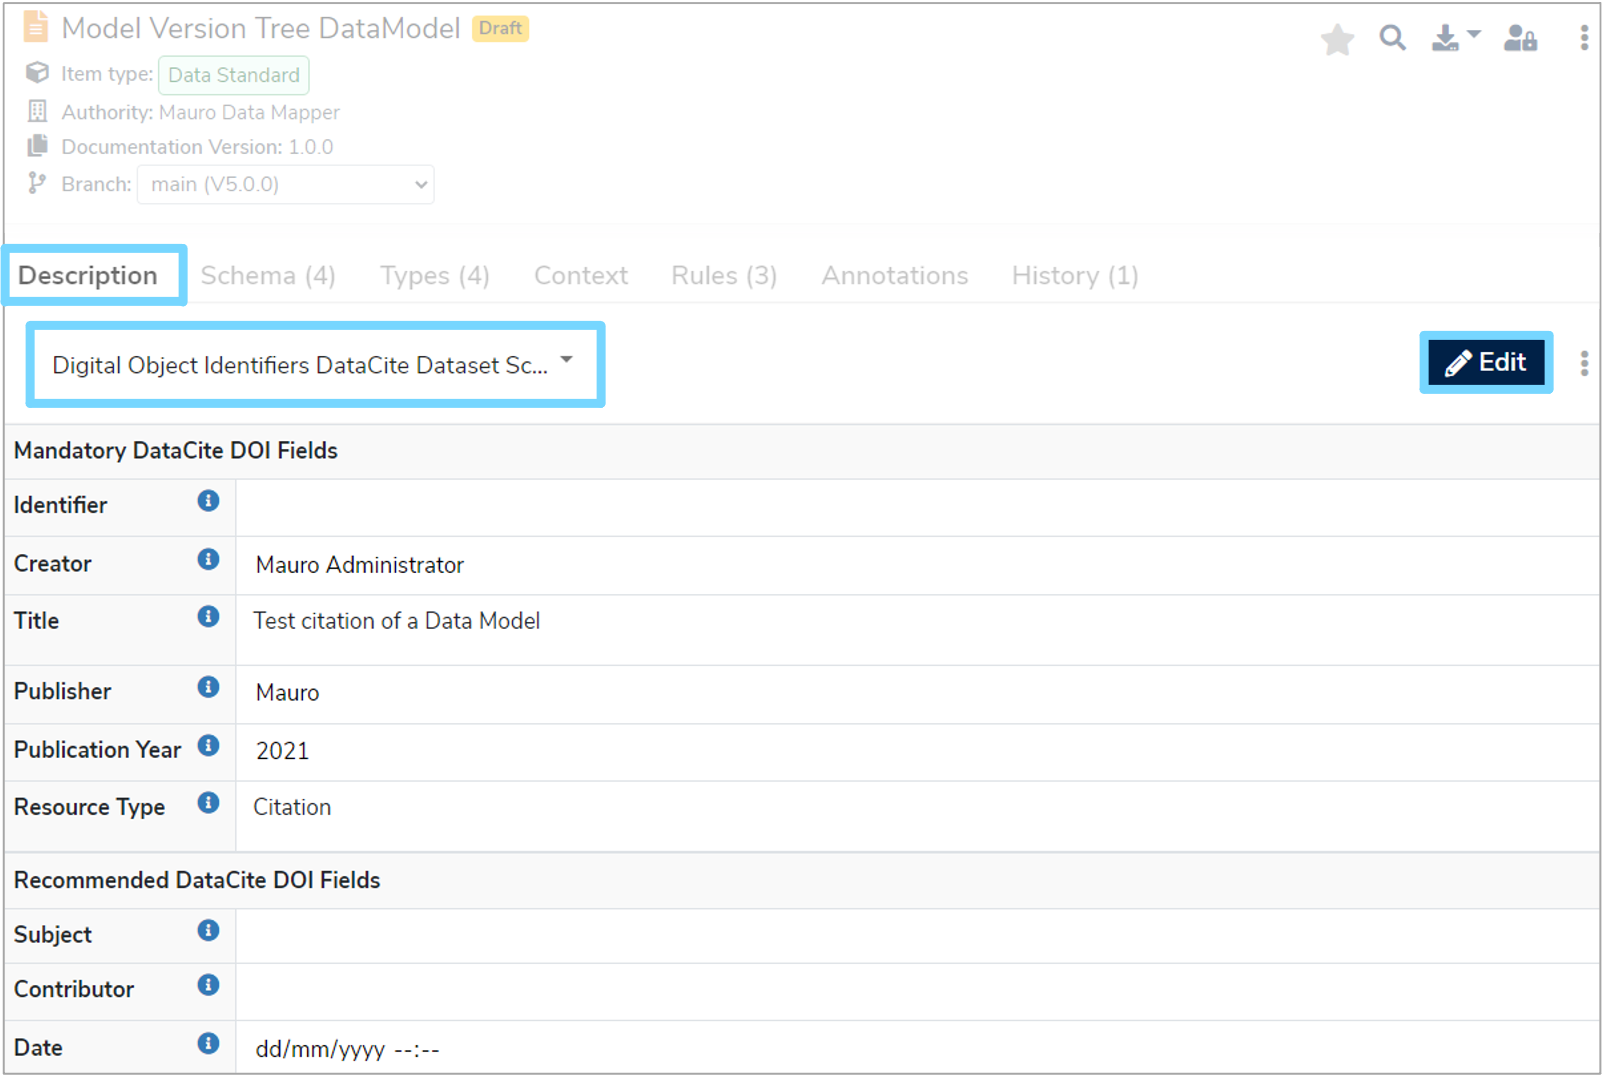
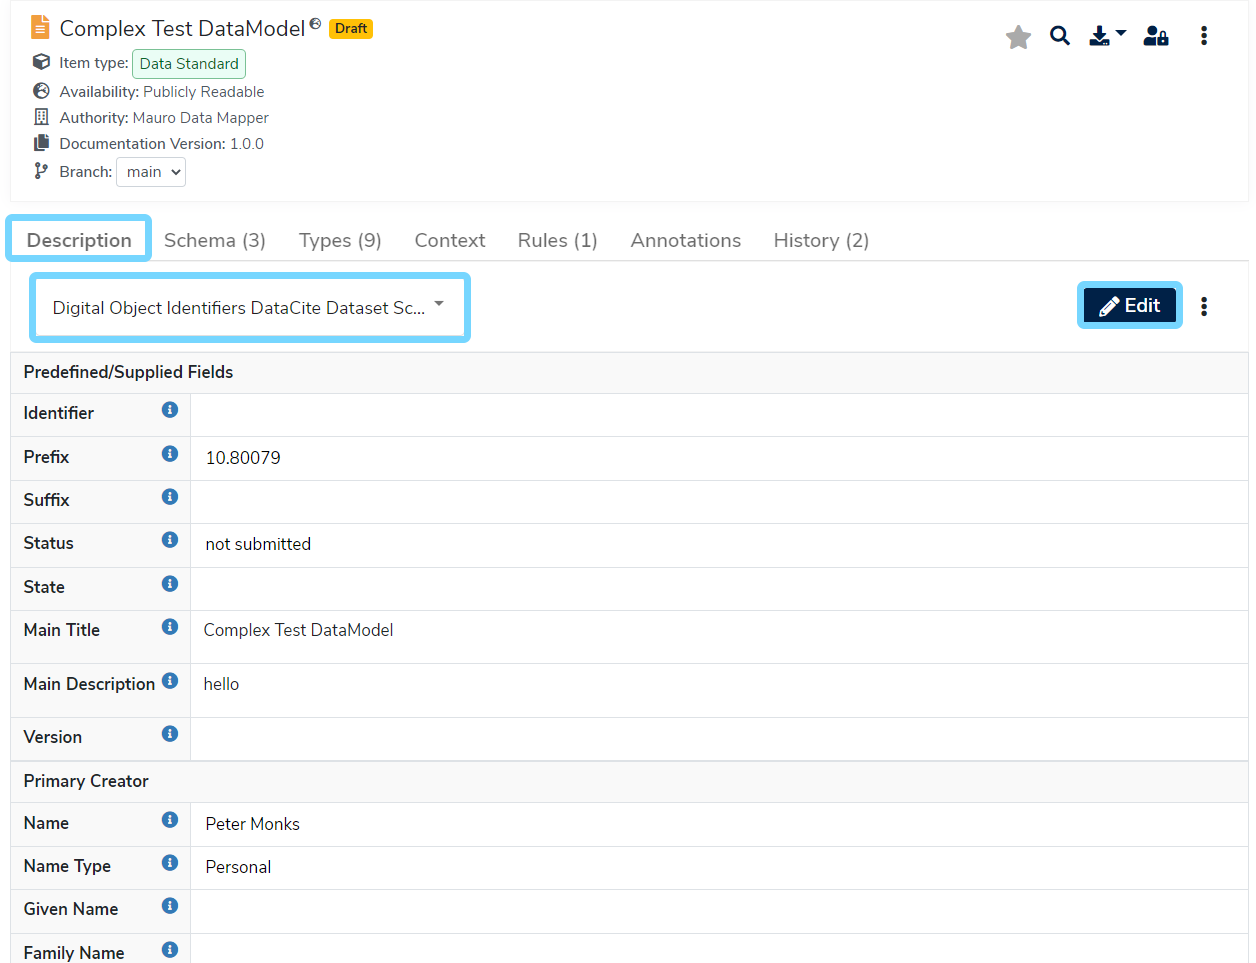
MC-9571 Update DOI user guide
* Update screenshots
* Adjust instructions based on current functionality

Changed region(s): [[0.0, 0.0, 1.0, 1.0], [0.0, 0.0, 0.3416, 0.1869]]

diff --git a/docs/user-guides/digital-object-identifiers/digital-object-identifiers.md b/docs/user-guides/digital-object-identifiers/digital-object-identifiers.md
@@ -76,7 +76,7 @@ One final API property to ensure is set is the **Site URL** under the **Site** g
 
 ## 3. Using the profile
 
-Assuming all the setup steps were carried out above, catalogue items should now be able to use a new [profile](https://maurodatamapper.github.io/tutorials/properties-profiles/) called **'Digital Object Identifiers DataCite Dataset Schema**'.
+Assuming all the setup steps were carried out above, catalogue items should now be able to use a new [profile](../../../tutorials/properties-profiles/) called **'Digital Object Identifiers DataCite Dataset Schema**'.
 
 ### 3.1 Add the profile
 
@@ -91,21 +91,25 @@ Expand the **'Default profile'** list and click **'Add new profile...'**. Select
 
 The DOI profile will present a number of fields which will be recorded as metadata against the catalogue item. These profile field values will also be submitted to the DOI system when a DOI name is requested, so it is important to ensure that the values entered into the profile are as accurate as possible.
 
-The profile fields are grouped into three sections:
+The profile fields are grouped into a number of sections:
 
-1. Mandatory DataCite DOI Fields
-2. Recommended DataCite DOI Fields
-3. Additional DataCite DOI Fields
+1. Predefined/Supplied Fields
+2. Primary Creator
+3. Additional Mandatory Fields
+4. Additional Optional Title Section
+5. Additional Optional Description Section
+6. Primary Contributor
+7. Additional Optional Fields
 
-Only **'Mandatory DataCite DOI Fields'** are required when submitting the catalogue item to register in the DOI system. Clicking on the help icons next to each field name will provide a description of what the field represents.
+The **Predefined/Supplied Fields** are special, read-only fields in the profile. These are used and modified internally by Mauro to track important details about the DOI name, such as the state, identifier, and so on. These are provided in read-only view to the user but are automatically controlled during DOI submission.
 
-The **'Identifier'** field is a special field which will store the DOI name once the DOI system has created one. Although this profile field is editable like all others, it should **not** be manually changed by a user, especially when it contains a value - Mauro will automatically populate this field for you.
+There are a number of sections and fields in the profile, though only a few a strictly mandatory to submit to the DOI system (marked with a "*" symbol next to their field name). Clicking on the help icons next to each field name will provide a description of what the field represents.
 
 The profile will appear in read-only form when viewing the catalogue item. If you want to edit the profile, first make sure the **'Digital Object Identifiers DataCite Dataset Schema'** profile is selected in the profile selection list and then click the **'Edit'** button. 
 
 ![An example of a DOI profile](doi-profile.png)
 
-This will bring up a **'Edit Profile'** form which you will then be able to make changes to. Once you have finished, click **'Save'**. 
+This will bring up an **'Edit Profile'** form which you will then be able to make changes to. Once you have finished, click **'Save'**. 
 
 !!! Information 
 	You are able to save changes to a profile without ensuring that the profile is fully valid. For example, some fields may say **'This field is mandatory'**, but changes can be saved temporarily without such fields being filled in. To test that the profile is valid, click on the **'Validate'** button, then review any validation alerts that appear in each field.
@@ -128,7 +132,7 @@ A notification box will then appear asking if you are sure you want to remove th
 
 The **'Identifier'** profile field will store the DOI name once the catalogue item has been submitted to the DOI system, for instance `10.1109/5.771073`. To store this DOI name, the catalogue item must first be submitted to the DOI system. 
 
-To do this, select the relevant catalogue item from the **Model Tree** that you want to submit. The item must be **finalised** and publicly readable to anyone. Once the details panel has appeared on the right of your screen, click the **'Description'** tab to view the profiles. Then click the three vertical dot menu to the right of the **'Edit'** button and select **'DOI submission'** from the dropdown menu. 
+To do this, select the relevant catalogue item from the **Model Tree** that you want to submit. The item must be [finalised](../../finalising-data-models/finalising-data-models/) and [publicly readable](../../permissions/permissions/#5-manage-user-and-group-access) to anyone. Once the details panel has appeared on the right of your screen, click the **'Description'** tab to view the profiles. Then click the three vertical dot menu to the right of the **'Edit'** button and select **'DOI submission'** from the dropdown menu. 
 
 ![DOI submission state options in dropdown menu](doi-submission-options.png)
 
@@ -143,11 +147,16 @@ You will then have two possible states to generate the DOI name:
 !!! Information
 	The **'Digital Object Identifiers DataCite Dataset Schema'** profile does not need to be selected to carry out this step, nor does it have to be created yet. Mauro will automatically handle the creation of the DOI profile if it does not already exist.
 
-Before submitting, an **'Edit Profile'** form will appear which will allow you to review the profile fields and make any necessary changes before submitting to the DOI system. Once you are happy with the profile, click the **'Submit'** button and a green notification box will appear at the bottom right of your screen to confirm the change and the **'Identifier'** field will be populated with the newly created DOI name.
+Before submitting, an **'Edit Profile'** form will appear which will allow you to review the profile fields and make any necessary changes before submitting to the DOI system. 
 
-![Edit Profile form before DOI submission](pre-submission-form.png)
+!!! Information
+	It is recommended to use the **Validate** button to ensure that all profile fields are valid before submitting.
+
+Once you are happy with the profile, click the **'Submit'** button and a green notification box will appear at the bottom right of your screen to confirm the change and the **'Identifier'** field will be populated with the newly created DOI name.
 
 You may continue making changes to any **Draft** DOI profiles by repeating the same steps above. However, once changing to the **Final** state, you will have one last opportunity to review/modify the profile before it is fixed in place forever.
+
+![A submitted DOI](doi-submitted.png)
 
 ---
 
